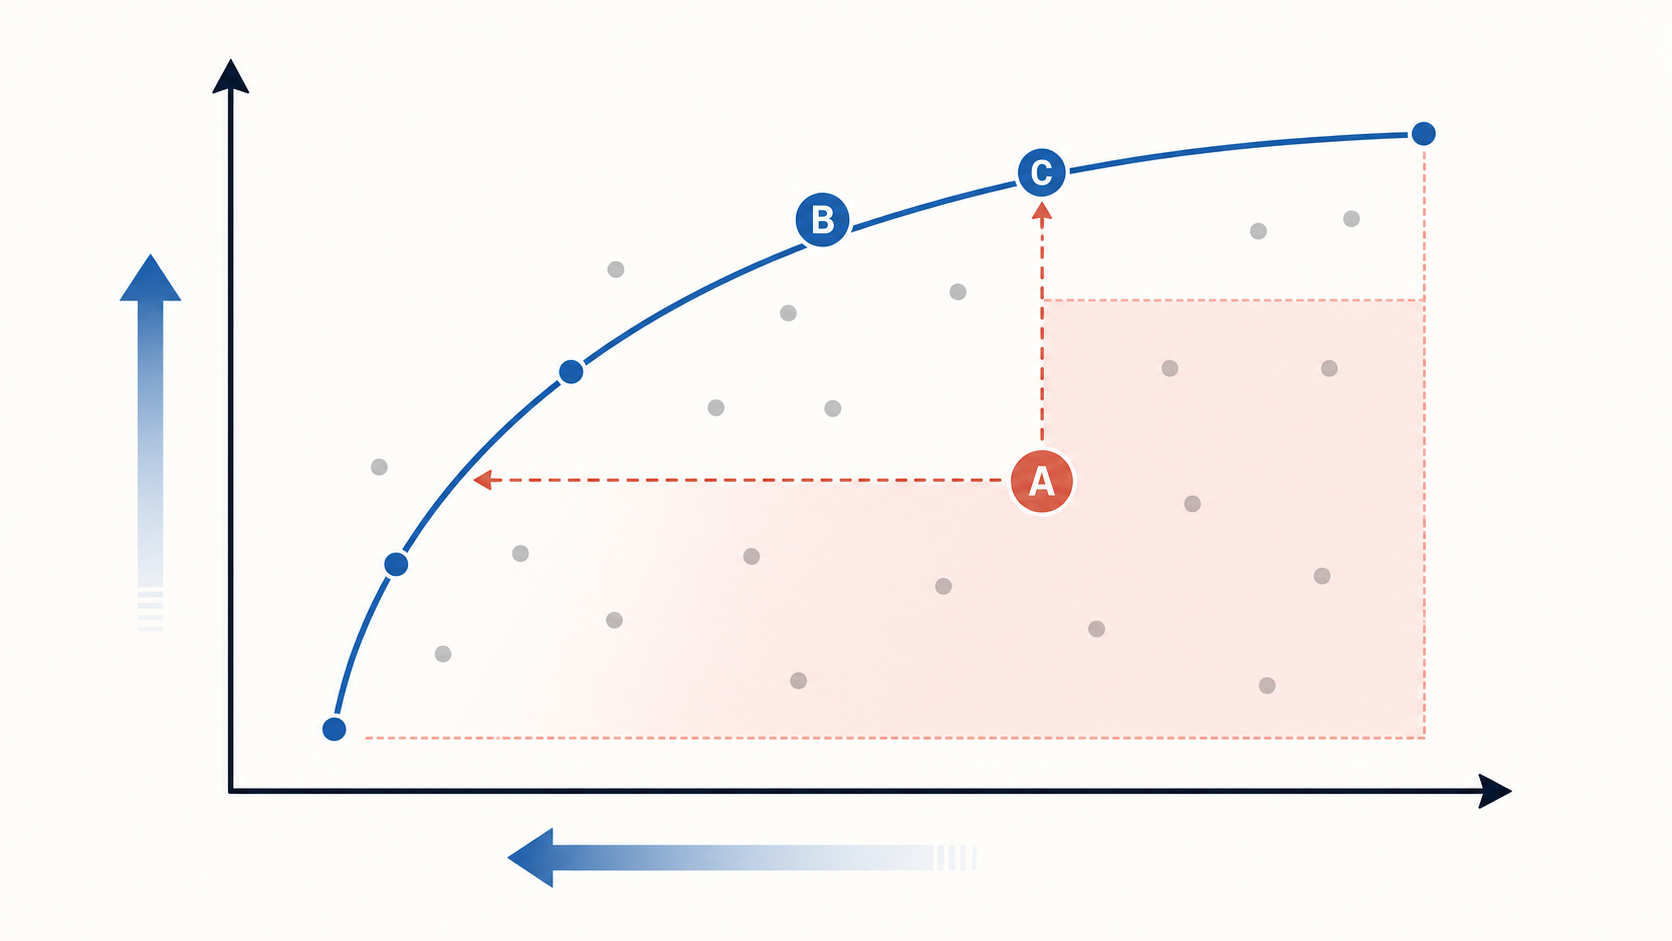
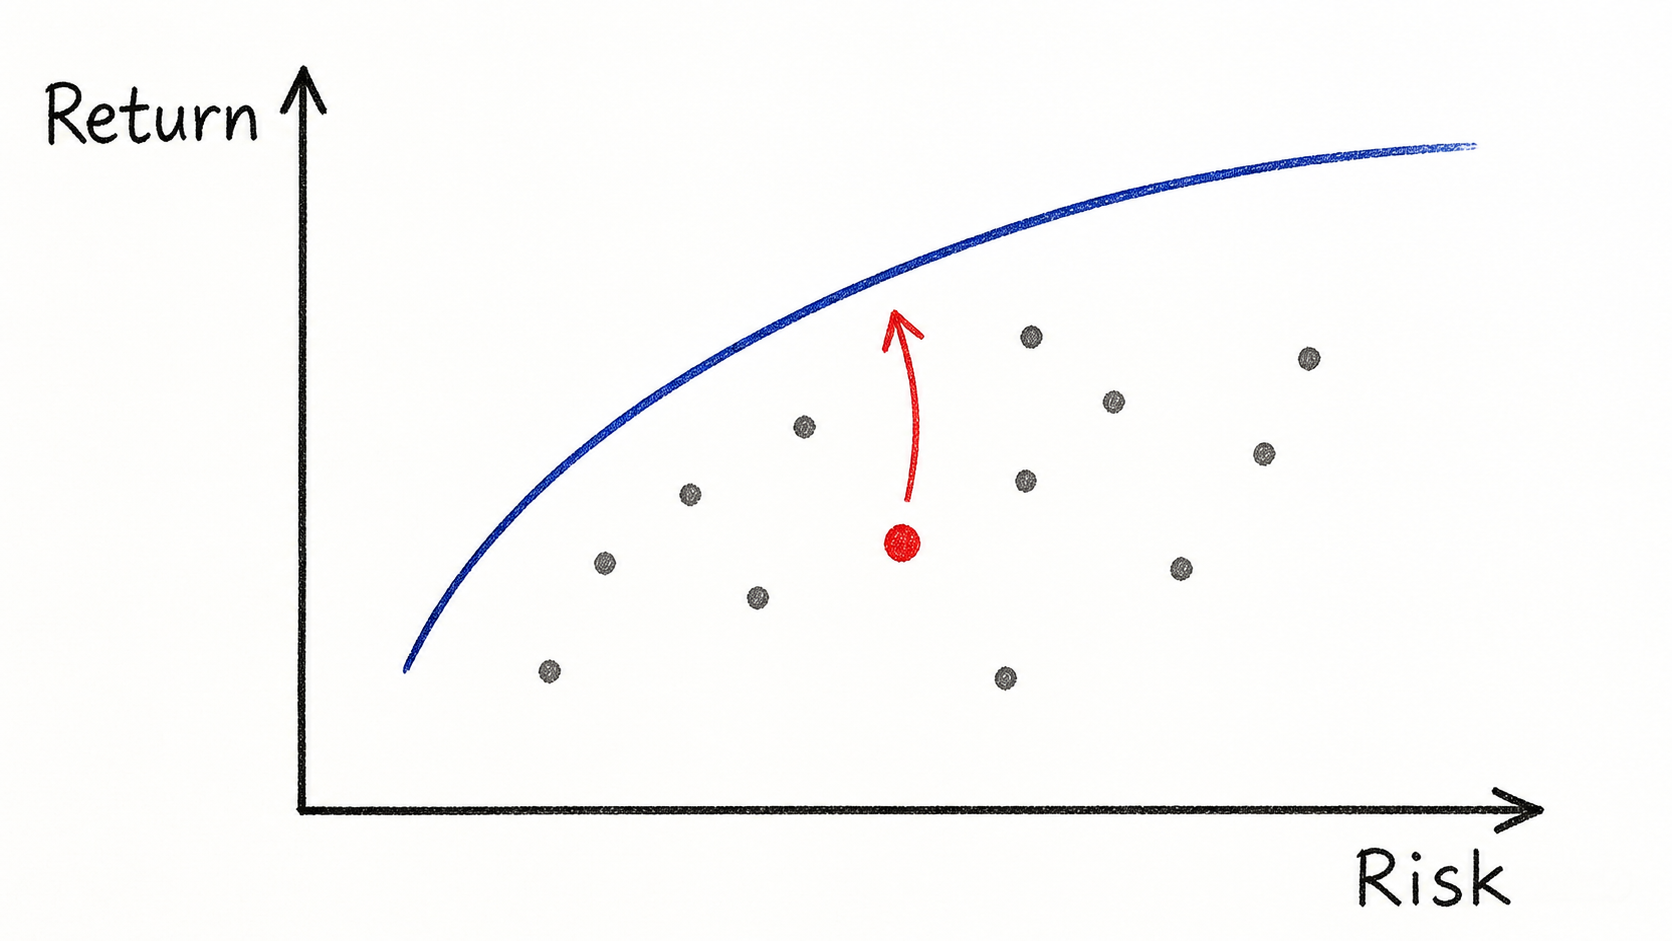
Replace the Markowitz AI illustration
- assets/blog/markowitz/ai-efficient-frontier-illustration.png: replace the previous polished dominance graphic with a simpler GPT-Image-2 hand-plot style risk-return sketch that has only Return and Risk axis labels, a blue efficient frontier, gray dominated portfolios, and a red dominated point with an improvement arrow.

- _posts/2026-05-02-markowitz-portfolio-selection.md: update the image caption to source the replacement illustration as GPT-Image-2 and describe the red point in terms of improving return or reducing risk.

diff --git a/_posts/2026-05-02-markowitz-portfolio-selection.md b/_posts/2026-05-02-markowitz-portfolio-selection.md
@@ -113,7 +113,7 @@ Portfolio C dominates portfolio A because it has the same return and lower varia
 
 ![AI-generated illustration of portfolio dominance and efficient frontier](/assets/blog/markowitz/ai-efficient-frontier-illustration.png)
 
-*AI-generated illustration, created with GPT-Image for this post. The blue curve represents nondominated portfolios. A point like A is dominated if another feasible point can move up to higher return or left to lower variance without making the other dimension worse.*
+*AI-generated illustration, created with GPT-Image-2 for this post. The blue curve represents nondominated portfolios. The red point is dominated because moving upward improves return at the same risk, while moving left would reduce risk at the same return.*
 
 ## Three securities reduce to a triangle
 
